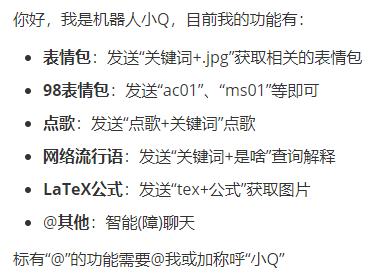
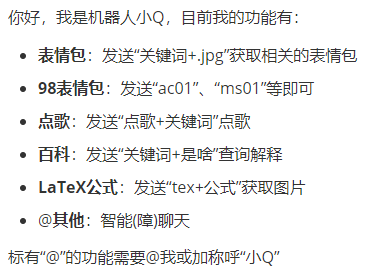
add wiki

diff --git a/src/plugins/wiki/__init__.py b/src/plugins/wiki/__init__.py
@@ -1,0 +1,41 @@
+import re
+from nonebot import on_keyword
+from nonebot.typing import T_State
+from nonebot.adapters.cqhttp import Bot, Event
+
+from .data_source import get_content
+
+commands = {'是啥', '是什么', '是谁'}
+wiki = on_keyword(commands, priority=18)
+
+
+def split(msg):
+    for command in commands:
+        if command in msg:
+            prefix, suffix = re.split(command, msg)
+            return prefix, suffix
+    return '', ''
+
+
+@wiki.handle()
+async def _(bot: Bot, event: Event, state: T_State):
+    msg = str(event.get_message()).strip().strip('.>,?!。，（）()[]【】')
+    prefix_words = ['这', '这个', '那', '那个']
+    suffix_words = ['意思', '梗', '玩意', '鬼']
+    prefix, suffix = split(msg)
+    if not prefix or prefix in prefix_words:
+        wiki.block = False
+        return
+    if suffix and suffix not in suffix_words:
+        wiki.block = False
+        return
+
+    keyword = prefix
+    title, content = await get_content(keyword)
+    if title:
+        wiki.block = True
+        await wiki.send(message=title + '：\n----------\n' + content)
+        await wiki.finish()
+    else:
+        wiki.block = False
+        return

diff --git a/src/plugins/wiki/data_source.py b/src/plugins/wiki/data_source.py
@@ -1,0 +1,18 @@
+import wikipedia
+from wikipedia import WikipediaException
+import traceback
+from nonebot.log import logger
+
+wikipedia.set_lang("zh")
+
+
+async def get_content(keyword):
+    try:
+        entries = wikipedia.search(keyword)
+        if len(entries) < 1:
+            return '', ''
+        title = entries[0]
+        return title, wikipedia.summary(title)
+    except WikipediaException:
+        logger.warning('Error in get content: ' + traceback.format_exc())
+        return '', ''

diff --git a/bot.py b/bot.py
@@ -23,7 +23,6 @@ driver.register_adapter("cqhttp", CQHTTPBot)
 nonebot.load_builtin_plugins()
 nonebot.load_plugins("src/plugins")
 nonebot.load_plugin("nonebot_plugin_apscheduler")
-nonebot.load_plugin("nonebot_plugin_apscheduler")
 
 # Modify some config / config depends on loaded configs
 # 

diff --git a/src/plugins/help/help.md b/src/plugins/help/help.md
@@ -3,7 +3,7 @@
 - **表情包**：发送“关键词+.jpg”获取相关的表情包
 - **98表情包**：发送“ac01”、“ms01”等即可
 - **点歌**：发送“点歌+关键词”点歌
-- **网络流行语**：发送“关键词+是啥”查询解释
+- **百科**：发送“关键词+是啥”查询解释
 - **LaTeX公式**：发送“tex+公式”获取图片
 - @**其他**：智能(障)聊天
 
